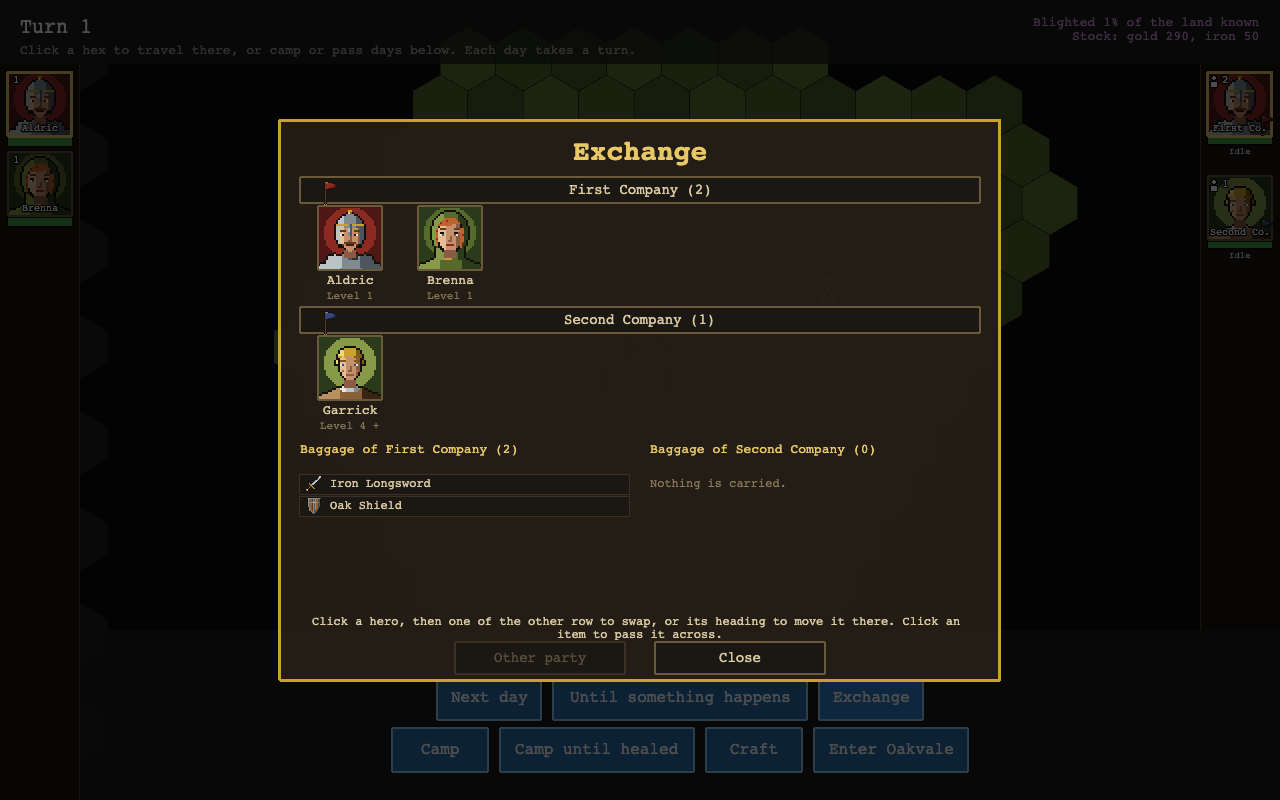
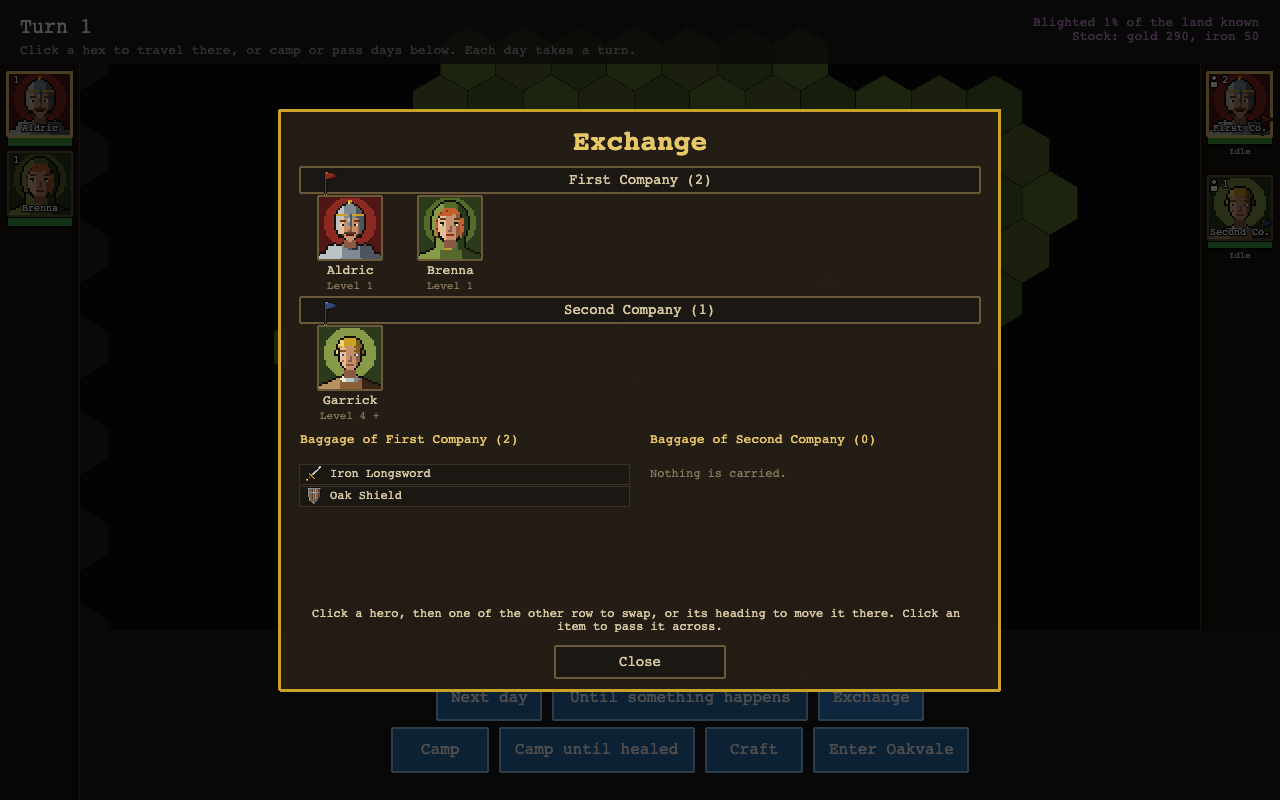
Stage 6 fixes: manual text and screenshots for the hall, encampment and exchange; fix round recorded in the index

Changed region(s): [[0.2188, 0.125, 0.7812, 0.6562], [0.2188, 0.75, 0.7812, 0.875]]

diff --git a/docs/implementation-plans/long-campaign-stage-06/index.md b/docs/implementation-plans/long-campaign-stage-06/index.md
@@ -260,6 +260,29 @@ guardBattles: number
 
 None blocks a step. Decisions 7, 8, 11 and 16 are defaults taken for the user to confirm. The design asks that the implementation notes say how the battles' player time feels, to settle auto-resolve (step 11).
 
+## Execution notes
+
+### Verification fix round (after step 11)
+
+Findings from the overall review, QA and the simulated user, fixed test-first on the branch (commits d9f461c, a35ddcb, c23d3a8, and this record's):
+
+1. Blocking: a meet order naming a party removed by `wipeParty` or `disband` made the save unreadable. Both now go through `removeParty` (company.ts), which turns any other party's meet on it to idle; domain tests show the save round-trips.
+2. CLAUDE.md: the false claim that the time row overflows the least window with Return home and Garrison is gone; "a walk (a click, Home, …" reads "Return home".
+3. save.ts: `migrateFrom18` documented as giving version 22's shape.
+4. `parseSave` reads as unreadable more than `MAX_PARTIES` parties, a meet naming its own party, and a guild hall level outside 1 to `MAX_GUILD_HALL_LEVEL` or not an integer.
+5. e2e: Return home (with Camp and Craft) is refused while another party confronts, selecting that party.
+6. Scout and Wait (and Camp, Camp until healed and the buildings) tell what else the day brought: another party's event or a notable one (`describeOthers`, worldEvents.ts), selecting that party as for an interrupt. `CampResult` gains `reports`; the two characterization tests leave it out of their hashes, which are unchanged.
+7. Every footer action that passes a day refuses as Next day does: the reason, and the blocking party selected (`actionBlocked` for the party's own Scout/Wait; `refused()` before Camp until healed and a field Craft).
+8. A load opens on the party its scene data names, else the first that confronts (`openingParty`), its line naming it with several parties (`describeStanding`).
+9. Disputed: `--parties` already refuses 0 and 4 ("--parties must be from 1 to 3", `parseArgs`, tested in scripts/simulate.test.ts); run by hand with Node 26, `--parties 4` exits with that error.
+10. Rename: the first key replaces the old name, a Ctrl/Cmd/Alt chord types nothing (`typeInRename`, hallColumns.ts), Esc clears the message.
+11. Showing a Guild Hall view clears the last message; a recruit's message is given on the roster it returns to.
+12. The hall's and the encampment's stock line wraps within the frame (two lines at 12px); the hall's level line is its own.
+13. Exchange: Other party shows only with three parties or more on the hex, Close centred otherwise; the frame is 20px taller so the help sits clear of the page and bottom buttons.
+14. The Guild Hall has no "For:" line (manual updated).
+
+The 5-campaign guard and its fixture are untouched and green.
+
 ## For implementers
 
 When you start or finish a step, update its status and commits in the table above. Record evidence (commands and output, the guard's result), deviations and blockers in your task file's "Execution record". Keep this index short; every implementer reads it.

diff --git a/docs/manual/README.md b/docs/manual/README.md
@@ -134,7 +134,8 @@ Raise the guild hall to level 4 and it can field a second party, at level 5 a th
 - **Select** a party by clicking its entry down the right. Its heroes fill the left side, a gold ring marks it on the map, and the footer's buttons act for it. Parties sharing a hex stand side by side.
 - **Every party moves at once.** Each carries on with its order whenever days pass, whoever you have selected. Only the selected party's walk is animated; the others step to where they have got to when it ends.
 - **Meet** another party by clicking the hex it stands on (the header says "Meet Second Company" as you hover it). The selected party walks to it, following it if it moves, until the two stand together. A party that walks onto monsters another party already faces stands before them too.
-- **Interruptions name the party.** When something stops the days, the message leads with the party it concerns ("Second Company: arrived at Kobold Scouts."), and the map selects that party and centres on it.
+- **Interruptions name the party.** When something stops the days, the message leads with the party it concerns ("Second Company: arrived at Kobold Scouts."), and the map selects that party and centres on it. A day the selected party spends scouting, waiting, camping or building is told the same way: what it did, then what another party met with that day. A saved game opens on a party standing before monsters, if one is.
+- **One party before monsters holds up the days.** While a party stands before monsters it has not answered, no day passes for anyone: Next day, a click on the map, Return home, Camp, Craft in the field and the buildings are refused, and the map selects that party so you can scout, wait or attack.
 - **Exchange** heroes and baggage when two parties stand on one hex (see [Meeting and exchange](#meeting-and-exchange)).
 - Two parties never fight the same lair at once. A party cannot be sent to a lair another party already stands at (meet it there instead), and of two parties reaching a lair on the same day the first in the list takes it, the other waiting a hex short.
 
@@ -146,6 +147,7 @@ When another party stands on the selected party's hex, an **Exchange** button ap
 
 - **Click a hero**, then a hero of the other row to swap the two, or the other row's heading to move the hero across.
 - **Click an item** in a baggage to pass it to the other party.
+- With three parties on the hex, **Other party** changes which one the second row trades with.
 - A party keeps at least one hero and at most the hall's party limit; a refusal is told at the bottom. Heroes keep what they wear and carry. Neither party may be standing before monsters the other does not face. **Close** (or Esc) goes back to the map. Reserves are not reached here; the guild hall moves them.
 
 ### Fog of war
